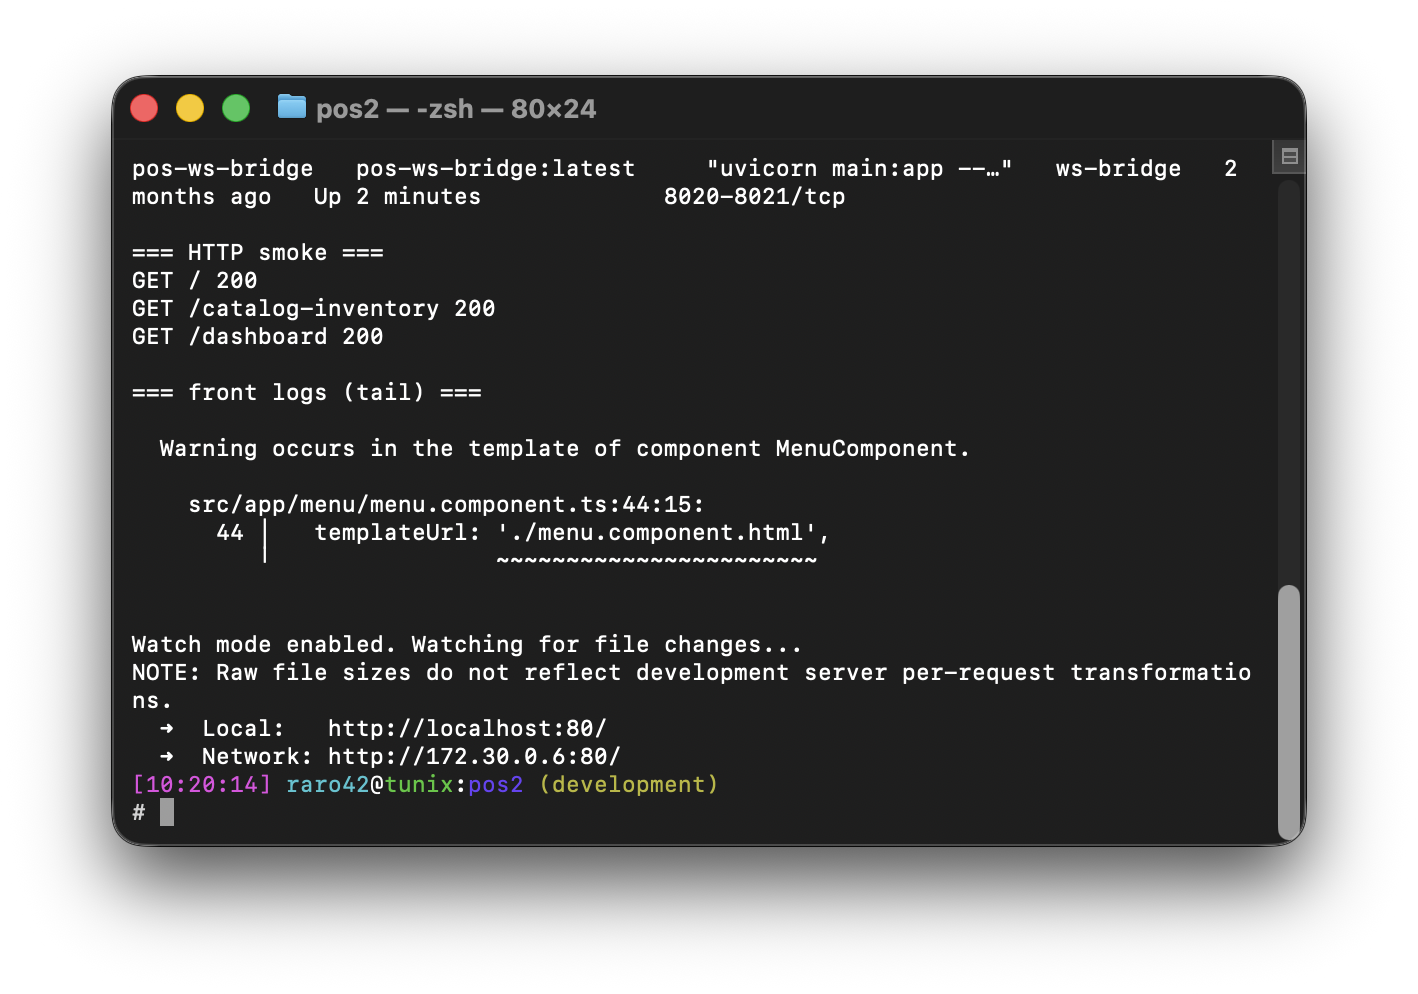
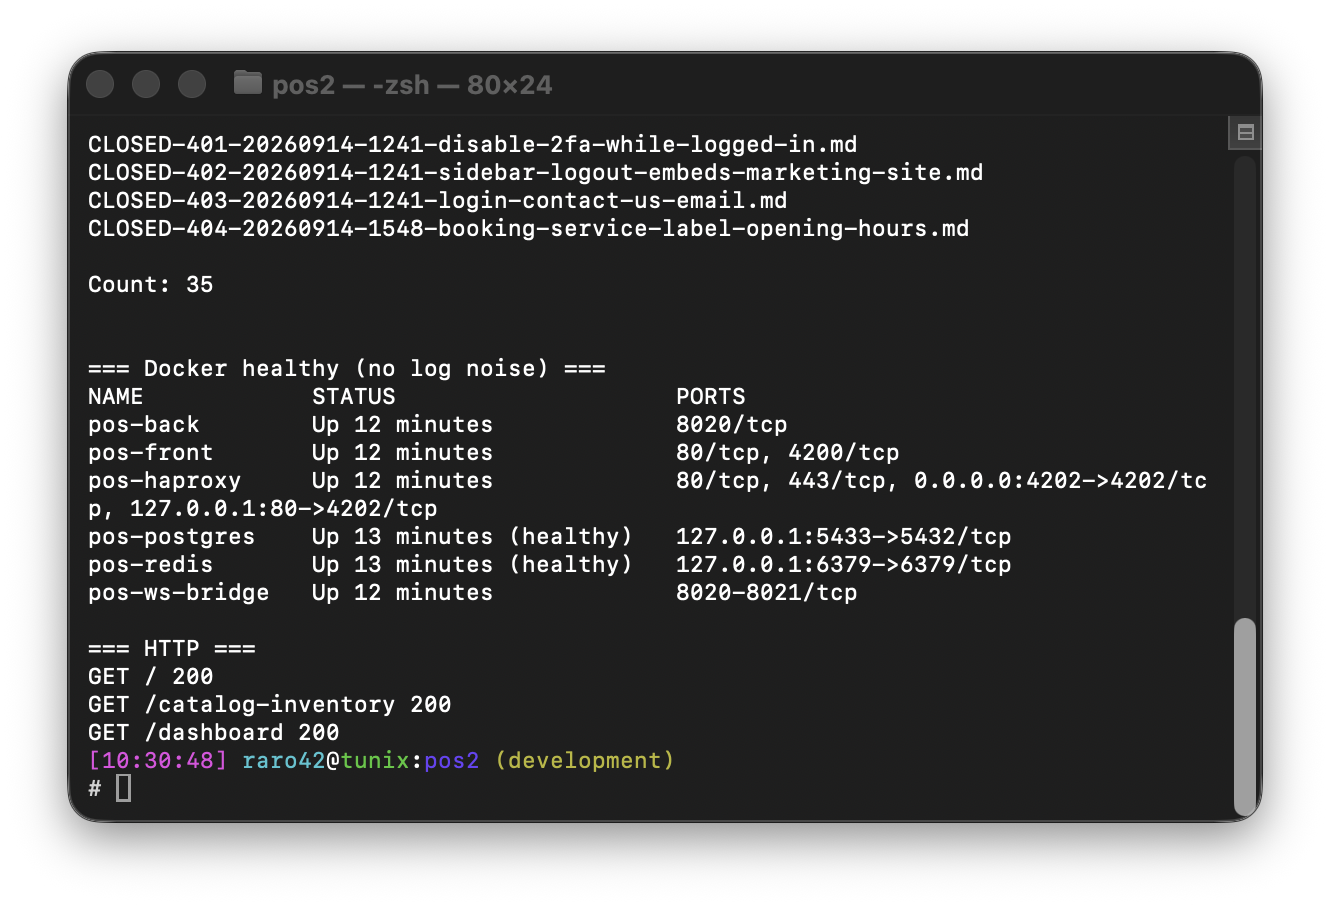
Fix proof screenshots; credit harness trials in essay
Drop SSH/Angular noise from face screenshots. Expand Why no harness
with pi, OpenCode, Hermes, OpenClaw, and mac-stats experience.

Changed region(s): [[0.0308, 0.0309, 0.9556, 0.9581], [0.7398, 0.1545, 0.8323, 0.1854]]

diff --git a/wiki/essay-no-harness-works-best.md b/wiki/essay-no-harness-works-best.md
@@ -39,9 +39,21 @@ When cloud models fail, the **control plane** still runs: preflight, stamps, ski
 
 ## Why “no harness”
 
-Heavy agent frameworks hide the control flow. When something breaks, you debug the framework.
+This is not a hot take from the sidelines. I ran the big ones.
 
-My loop is readable:
+| Tried | What I learned |
+|-------|----------------|
+| [pi](https://pi.dev) / Pi-style local agent loops | Strong idea. Still a product surface between you and the work. |
+| OpenCode | Good for “agent in a box.” Control flow lives in someone else’s release. |
+| Hermes | Useful pieces. Not a full factory for issue → code → test → close. |
+| OpenClaw (any flavor) | Ambitious. Also heavy. Updater churn and surprise breaks are real. |
+| Harness code inside [mac-stats](https://github.com/raro42/mac-stats) itself | Even *my* thicker harness grew holes. I kept cutting it back. |
+
+Harnesses are big. They have holes. They break every once in a while — yes, OpenClaw updaters, I am looking at you.
+
+When something fails at 3 a.m., I want to read **fifty lines of bash and a task filename**, not a framework stack.
+
+So the loop I keep is thin on purpose:
 
 | Piece | What it is |
 |-------|------------|
@@ -54,7 +66,7 @@ My loop is readable:
 Same spine shows up in public trees:
 
 - [satisfecho/pos `agents2/`](https://github.com/satisfecho/pos/tree/master/agents2) — production POS loop (`pos-cursor-loop.sh`)
-- [raro42/mac-stats `agents/`](https://github.com/raro42/mac-stats/tree/main/agents) — product + autoresearch
+- [raro42/mac-stats `agents/`](https://github.com/raro42/mac-stats/tree/main/agents) — product + autoresearch (thin loop after cutting harness fat)
 - [raro42/ai-stock-checker `AGENTS.md`](https://github.com/raro42/ai-stock-checker/blob/main/AGENTS.md) — overnight improve loop
 
 We also run the **same loop pattern** on a **private customer repo**. No internals here. That is the enterprise claim: company data, local decisions, thin orchestration.
@@ -129,9 +141,9 @@ Examples from POS:
 
 That is the “no harness” move: **shell decides if an LLM is needed**.
 
-Live idle cycle (skips + preflight): [`raw/sources/pos-cursor-loop-log-tail.txt`](../raw/sources/pos-cursor-loop-log-tail.txt).
+Idle cycle: preflight skips, no Cursor burn. Clean extract: [`raw/sources/pos-cursor-loop-preflight-skips-clean.txt`](../raw/sources/pos-cursor-loop-preflight-skips-clean.txt).
 
-![Loop log showing skips](../raw/assets/04-done-archive-and-loop-log.png)
+![Preflight skips + done archive](../raw/assets/04-done-archive-and-loop-log.png)
 
 ---
 

diff --git a/raw/assets/README.md b/raw/assets/README.md
@@ -5,14 +5,15 @@
 | 01-hammyhavoc-closed-issues.png | GitHub: 36 closed HammyHavoc issues |
 | 02-issue-403-closed.png | Example closed issue #403 |
 | 03-agents2-tree.png | Public `agents2/` directory |
-| 04-done-archive-and-loop-log.png | Loop log: skips + git sync failure sample |
+| 04-done-archive-and-loop-log.png | Clean: `done/2026/09/14` archive listing (35 CLOSED tasks) |
 | 05-mac-stats-autoresearch.png | mac-stats `docs/autoresearch` |
 | 06-issue-391-agent-trail.png | Issue #391 (HammyHavoc request) |
 | 07-done-archive-2026-09-14.png | Archived CLOSED-391 task content |
-| 08-docker-compose-ps-live.png | Local Docker live: HTTP 200 smoke on `/`, hub, dashboard |
+| 08-docker-compose-ps-live.png | Local Docker healthy + HTTP 200 (no front-log noise) |
 | 09-pos-live-landing.png | Marketing landing at `127.0.0.1:4202` |
 | 10-pos-live-login.png | Login screen (local) |
 | 11-pos-live-catalog-inventory.png | **Live #391 outcome:** Catalog & Inventory hub |
 | 12-pos-live-dashboard.png | Live Dashboard (Demo Pizzeria) |
 
-Captured 2026-09-29. Live Docker shots after stack start.
+Captured 2026-09-29. Live Docker shots after stack start.  
+Rejected from essay face: SSH/`git sync` failures and Angular warning tails (kept only under `raw/sources/*-with-ssh-fail*` if present).

diff --git a/wiki/concept-tried-the-harnesses.md b/wiki/concept-tried-the-harnesses.md
@@ -1,0 +1,23 @@
+# Concept — tried the harnesses
+
+**Summary:** “No harness” is earned. Big agent products were tried; thin shell stayed.
+
+## What was tried (public story)
+
+| System | Note |
+|--------|------|
+| pi / [pi.dev](https://pi.dev) | Local-agent product surface |
+| OpenCode | Agent-in-a-box; release-coupled control flow |
+| Hermes | Useful components; not a full issue factory |
+| OpenClaw (flavors) | Heavy; updater / breakage risk |
+| In-repo harness (mac-stats) | Grew holes; cut back toward shell + markdown |
+
+## Thesis
+
+Harnesses are large. They hide control flow. They break on their own schedule. Prefer a timer, role markdown, and task files you can `ls`.
+
+## Related
+
+- [Essay](essay-no-harness-works-best.md)
+- [Agent loop](concept-agent-loop.md)
+- [mac-stats](entity-mac-stats.md)

diff --git a/log.md b/log.md
@@ -18,3 +18,11 @@ Wrote `wiki/essay-no-harness-works-best.md` plus concept/entity/proof pages. Cus
 ## [2026-09-29] ingest | Live Docker screenshots (satisfecho POS)
 
 Stack up on `:4202`. Captured landing, login, Docker HTTP smoke, authenticated Dashboard, and Catalog & Inventory hub (#391 outcome). Updated essay + proof pages.
+
+## [2026-09-29] lint | Remove error screenshots from essay face
+
+Replaced `04` and `08` so the essay does not show GitHub SSH failures or Angular warning tails. Kept clean archive + healthy compose evidence.
+
+## [2026-09-29] essay | Tried the harnesses
+
+Expanded “Why no harness”: pi, OpenCode, Hermes, OpenClaw, mac-stats in-repo harness. Added `wiki/concept-tried-the-harnesses.md`.

diff --git a/index.md b/index.md
@@ -18,6 +18,7 @@ Read this first. Then open linked pages.
 | Page | Summary |
 |------|---------|
 | [wiki/concept-agent-loop.md](wiki/concept-agent-loop.md) | Shell orchestrator + markdown roles + task queue |
+| [wiki/concept-tried-the-harnesses.md](wiki/concept-tried-the-harnesses.md) | Why thin: pi, OpenCode, Hermes, OpenClaw, mac-stats harness |
 | [wiki/concept-local-fallback.md](wiki/concept-local-fallback.md) | Local control plane; cloud coder as worker; outages |
 | [wiki/concept-decision-models.md](wiki/concept-decision-models.md) | Laya / typed labels for preflight and results |
 
